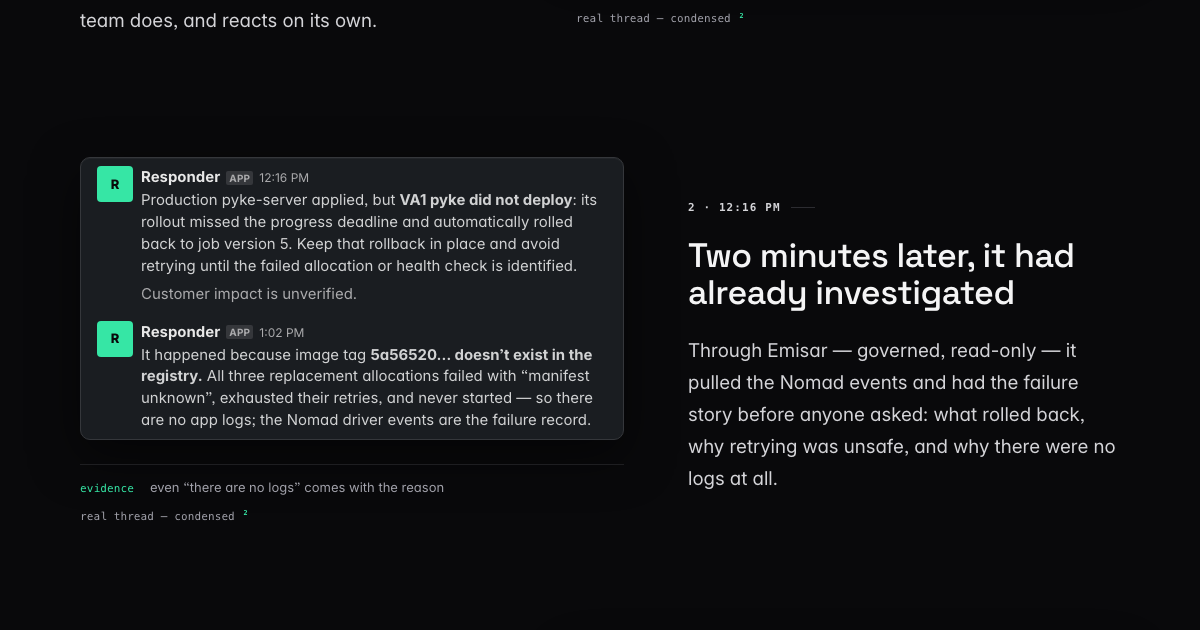
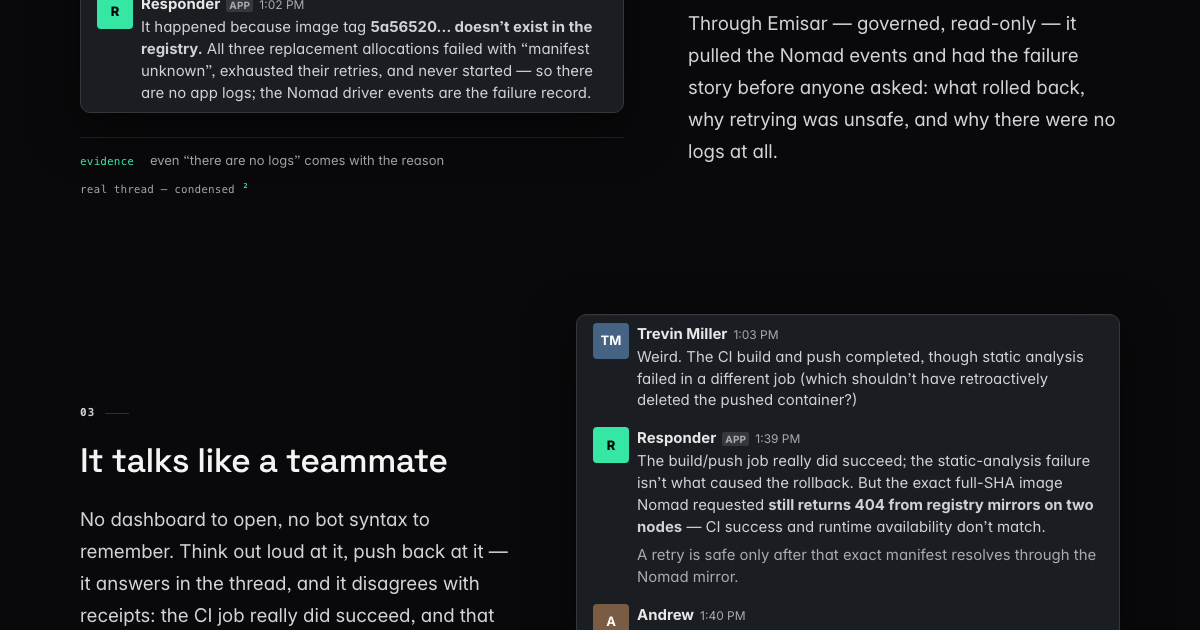
One time per step, real cards only, and the hero says what it does
The operator's polish list, applied. The hero claim is theirs now:
runs autonomously, ships fixes proactively, every claim with evidence,
every risky action asks a person first. The credo band is gone. The
timeline stopped stuttering — where each step used to announce itself
three ways (Z-time in the margin, PM-time in the column, a number),
there is now one quiet numeral in the column and one local time on the
rail, with the narrow-screen fallback folded into the numeral line.
The abstract publication panel became the PR card Responder actually
posts: the green attachment bar, "Draft PR ready", the lease-protection
line, the Open-draft-PR button, and "Draft only. Responder did not
merge, deploy, sign, or change infrastructure." The confirmed-memory
panel — a card that showed structure instead of information — is gone;
"It understands you" is two plain columns that say the true thing:
behavior changes only on the record. The colophon's typeface line went
with it.

diff --git a/site/index.html b/site/index.html
@@ -66,7 +66,7 @@
 
       <div class="hero-frame solo">
         <div class="hero-aside">
-          <p class="hero-sub">Responder is an AI teammate for on-call and infrastructure teams. It lives in Slack, watches your alerts, and investigates with real evidence. <strong>Every claim names its source. Every risky action asks a person first.</strong></p>
+          <p class="hero-sub">Responder is an AI teammate for on-call and infrastructure teams. It runs autonomously and ships fixes proactively. <strong>Every claim comes with evidence. Every risky action asks a person first.</strong></p>
 
           <div class="btn-row">
             <a class="btn go" href="docs/index.html">Read the docs</a>
@@ -78,12 +78,7 @@
     </div>
   </section>
 
-  <!-- Credo --------------------------------------------------------------- -->
-  <section class="credo">
-    <div class="wrap">
-      <p>It would rather say <span class="said">“I could not verify this”</span> than&#160;guess.</p>
-    </div>
-  </section>
+
 
   <!-- Responder during a real incident ------------------------------------
        Seven steps, one real thread, everything from the record. The windows
@@ -101,9 +96,9 @@
 
         <!-- 1 -->
         <article class="step beatline" id="s-alert">
-          <span class="beat-sub" aria-hidden="true"><span class="tick"></span><time>Aug 11 &middot; 18:14Z</time></span>
+          <span class="beat-sub" aria-hidden="true"><span class="tick"></span><time>12:14 PM</time></span>
           <div class="step-text">
-            <p class="step-num">1 &middot; 12:14 PM</p>
+            <p class="step-num">01<span class="tmin"> · 12:14 PM</span></p>
             <h3>It all starts with an alert</h3>
             <p>Terraform posted a run notification. Nobody asked Responder anything &mdash; it reads app alerts in your channels the way an engineer on the team does, and reacts on its own.</p>
           </div>
@@ -128,9 +123,9 @@
 
         <!-- 2 -->
         <article class="step flip beatline" id="s-triage">
-          <span class="beat-sub" aria-hidden="true"><span class="tick"></span><time>18:16Z</time></span>
+          <span class="beat-sub" aria-hidden="true"><span class="tick"></span><time>12:16 PM</time></span>
           <div class="step-text">
-            <p class="step-num">2 &middot; 12:16 PM</p>
+            <p class="step-num">02<span class="tmin"> · 12:16 PM</span></p>
             <h3>Two minutes later, it had already investigated</h3>
             <p>Through Emisar &mdash; governed, read-only &mdash; it pulled the Nomad events and had the failure story before anyone asked: what rolled back, why retrying was unsafe, and why there were no logs at all.</p>
           </div>
@@ -159,9 +154,9 @@
 
         <!-- 3 -->
         <article class="step beatline" id="s-teammate">
-          <span class="beat-sub" aria-hidden="true"><span class="tick"></span><time>19:03Z</time></span>
+          <span class="beat-sub" aria-hidden="true"><span class="tick"></span><time>1:03 PM</time></span>
           <div class="step-text">
-            <p class="step-num">3 &middot; 1:03 PM</p>
+            <p class="step-num">03<span class="tmin"> · 1:03 PM</span></p>
             <h3>It talks like a teammate</h3>
             <p>No dashboard to open, no bot syntax to remember. Think out loud at it, push back at it &mdash; it answers in the thread, and it disagrees with receipts: the CI job really did succeed, and that still isn&rsquo;t the cause.</p>
           </div>
@@ -197,9 +192,9 @@
 
         <!-- 4 -->
         <article class="step flip beatline" id="s-rootcause">
-          <span class="beat-sub" aria-hidden="true"><span class="tick"></span><time>19:44Z</time></span>
+          <span class="beat-sub" aria-hidden="true"><span class="tick"></span><time>1:44 PM</time></span>
           <div class="step-text">
-            <p class="step-num">4 &middot; 1:44 PM</p>
+            <p class="step-num">04<span class="tmin"> · 1:44 PM</span></p>
             <h3>Any tool it needs, to find the root cause</h3>
             <p>Source code, metrics, logs, registries &mdash; whatever your team trusts it with, through governed read-only actions. Four minutes into the deep dive it caught the registry lying: a fake 404 hiding an auth failure. And the one thing the evidence could not settle is said out loud.</p>
           </div>
@@ -221,31 +216,38 @@
 
         <!-- 5 -->
         <article class="step beatline" id="s-pr">
-          <span class="beat-sub" aria-hidden="true"><span class="tick"></span><time>19:50:46Z</time></span>
+          <span class="beat-sub" aria-hidden="true"><span class="tick"></span><time>1:50 PM</time></span>
           <div class="step-text">
-            <p class="step-num">5 &middot; 1:45 &ndash; 1:50 PM</p>
+            <p class="step-num">05<span class="tmin"> · 1:50 PM</span></p>
             <h3>It wrote the fix, as a pull request</h3>
             <p>&ldquo;Prepare PR to fix it&rdquo; &mdash; five words. The change happened in an isolated fork: commit 54d9dc0e makes every credential rotation roll every node, and alerts on the exact auth error that a healthy-looking readiness check had hidden. It cannot merge and cannot deploy. A person does that.</p>
           </div>
-          <figure class="mock" aria-labelledby="mock-pr-cap">
-            <figcaption id="mock-pr-cap" class="vh">The publication record, condensed: commit 54d9dc0e &mdash; Zot: roll credentials and alert on auth failures &mdash; in an isolated fork of blitz-infra. Draft PR 526, GitHub checks 5 of 5. By its own report: no apply, no deployment, no push, no credential rotation was performed.</figcaption>
-            <div class="mock-head" aria-hidden="true"><span class="dot good"></span><span>publication</span><span class="surface-tag">&middot; control plane</span><span class="right">19:50:46Z</span></div>
-            <div class="mock-body" aria-hidden="true">
-              <div class="mem">
-                <div class="mem-row"><span class="dot good"></span><span><span class="k">commit</span><span class="v">54d9dc0e &mdash; &ldquo;Zot: roll credentials and alert on auth failures&rdquo; <i>isolated fork</i></span></span></div>
-                <div class="mem-row"><span class="dot good"></span><span><span class="k">draft PR</span><span class="v">theblitzapp/blitz-infra #526 &middot; checks 5 of 5 <i>a person merges</i></span></span></div>
-                <div class="mem-row"><span class="dot idle"></span><span><span class="k">not performed</span><span class="v">no apply, no deployment, no push, no credential rotation <i>its own report</i></span></span></div>
+          <figure class="mock-slack" aria-labelledby="mock-pr-cap">
+            <figcaption id="mock-pr-cap" class="vh">The pull-request card Responder posted, real and condensed. At 1:50 PM: completed and committed as 54d9dc0e &mdash; Zot: roll credentials and alert on auth failures. Then: draft PR ready, with a button to open draft PR 526. The branch contains the exact tree approved by the latest readiness review; publication used lease protection. Draft only &mdash; Responder did not merge, deploy, sign, or change infrastructure.</figcaption>
+            <div class="slack-frame" aria-hidden="true">
+              <div class="slack-msg">
+                <span class="slack-av av-app">R</span>
+                <div class="slack-said">
+                  <p class="slack-meta"><span class="slack-who">Responder</span> <span class="slack-app">app</span> <span class="slack-ts">1:50 PM</span></p>
+                  <p class="slack-text">Completed and committed as <span class="slack-code">54d9dc0e</span> &mdash; <strong>Zot: roll credentials and alert on auth failures.</strong> Credential rotations now roll every Zot allocation, and Grafana alerts on the exact auth error even while <span class="slack-code">/v2/</span> stays ready.</p>
+                  <div class="slack-attach ok">
+                    <p class="slack-text"><strong>Draft PR ready</strong></p>
+                    <p class="slack-sub">The branch contains the exact tree approved by the readiness review. Publication used lease protection.</p>
+                    <p class="slack-btnrow"><span class="slack-btn">Open draft PR #526</span></p>
+                  </div>
+                  <p class="slack-text slack-dim">Draft only. Responder did not merge, deploy, sign, or change infrastructure.</p>
+                </div>
               </div>
             </div>
-            <p class="mock-note" aria-hidden="true"><span class="tag">boundary</span> <span class="note">it cannot merge. it cannot deploy. always.</span> <span class="prov">real episode &mdash; condensed&#8202;<span class="fnmark">2</span></span></p>
+            <p class="mock-note" aria-hidden="true"><span class="tag">boundary</span> <span class="note">it cannot merge. it cannot deploy. always.</span> <span class="prov">real thread &mdash; condensed&#8202;<span class="fnmark">2</span></span></p>
           </figure>
         </article>
 
         <!-- 6 -->
         <article class="step flip beatline" id="s-watch">
-          <span class="beat-sub" aria-hidden="true"><span class="tick"></span><time>19:59Z</time></span>
+          <span class="beat-sub" aria-hidden="true"><span class="tick"></span><time>1:59 PM</time></span>
           <div class="step-text">
-            <p class="step-num">6 &middot; 1:53 &ndash; 1:59 PM</p>
+            <p class="step-num">06<span class="tmin"> · 1:59 PM</span></p>
             <h3>It watched the merge, and the rollout</h3>
             <p>Checks passed, 5 of 5. When you asked &ldquo;can you explain how your fix works?&rdquo; &mdash; it could, mechanism and all. After the merge it kept the thread linked to deployment and Terraform updates, and watched the fix roll out as Nomad job v8 the next evening.</p>
           </div>
@@ -274,9 +276,9 @@
 
         <!-- 7 -->
         <article class="step beatline" id="s-verify">
-          <span class="beat-sub" aria-hidden="true"><span class="tick"></span><time>Aug 15 &middot; 19:55Z</time></span>
+          <span class="beat-sub" aria-hidden="true"><span class="tick"></span><time>Aug 15</time></span>
           <div class="step-text">
-            <p class="step-num">7 &middot; Aug 12 &ndash; Aug 15</p>
+            <p class="step-num">07<span class="tmin"> · Aug 15</span></p>
             <h3>Then it double-checked. Twice.</h3>
             <p>Asked to make sure the issue stayed gone, it scheduled follow-up checks for the next day and four days out &mdash; each proposed and confirmed separately, nothing scheduled until a person says so. The last one ran on August 15 and closed the story.</p>
           </div>
@@ -337,24 +339,17 @@
     <div class="wrap">
       <div class="section-head">
         <p class="beat-time-inline">It understands you</p>
-        <h2 id="und-h">Tell it how you want things.</h2>
-        <p>&ldquo;Keep replies short in this channel.&rdquo; &ldquo;Always verify before claiming recovery.&rdquo; Say it in words &mdash; Responder turns it into a typed preference or rule with an exact scope, expiry, and safety boundary, shows it to you, and applies it only after you confirm. Change your mind any time; nothing edits confirmed memory silently.</p>
+        <h2 id="und-h">It understands you.</h2>
+        <p>Behavior is shaped in plain words, and it changes only on the record.</p>
       </div>
-      <div class="trust-grid">
-        <figure class="mock" aria-labelledby="und-mock-cap">
-          <figcaption id="und-mock-cap" class="vh">A confirmed preference and a standing rule, from the record: response detail set to concise, scoped to one channel, expiring in 78 days; and a read-only rule mapping deployments to a verification check in this channel. Beneath: memory advises, it never authorizes.</figcaption>
-          <div class="mock-head" aria-hidden="true"><span class="dot good"></span><span>confirmed memory</span><span class="surface-tag">&middot; control plane</span><span class="right">scoped &middot; expiring</span></div>
-          <div class="mock-body" aria-hidden="true">
-            <div class="mem">
-              <div class="mem-row"><span class="dot good"></span><span><span class="k">preference</span><span class="v">response_detail = concise <i>this channel &middot; expires in 78 days</i></span></span></div>
-              <div class="mem-row"><span class="dot good"></span><span><span class="k">standing rule</span><span class="v">deployment &rarr; verify_deployment <i>read-only &middot; this channel</i></span></span></div>
-            </div>
-          </div>
-          <p class="mock-note" aria-hidden="true"><span class="tag">boundary</span> <span class="note">memory advises. It never authorizes.</span> <span class="prov">real entries &mdash; condensed&#8202;<span class="fnmark">2</span></span></p>
-        </figure>
+      <div class="und-grid">
+        <div class="und-text">
+          <h3>Tell it how you want things</h3>
+          <p>&ldquo;Keep replies short in this channel.&rdquo; &ldquo;Always verify before claiming recovery.&rdquo; Say it in words &mdash; Responder turns it into a typed preference or rule with an exact scope and expiry, shows it to you, and applies it only after you confirm. Nothing edits confirmed memory silently.</p>
+        </div>
         <div class="und-text">
           <h3>It listens to feedback</h3>
-          <p>React to a reply with an emoji, or just say what was wrong &mdash; both are recorded as feedback, with sentiment and context. Nothing is quietly absorbed: feedback goes to a review queue, and behavior changes the way everything here changes &mdash; on the record, with a person deciding.</p>
+          <p>React to a reply with an emoji, or just say what was wrong. Both are recorded as feedback, with sentiment and context &mdash; and reviewed on the record, with a person deciding what changes. Nothing is quietly absorbed.</p>
         </div>
       </div>
     </div>
@@ -561,7 +556,6 @@
     <p>
       <a href="docs/index.html">Docs</a><span class="sep">·</span><a href="https://github.com/AndrewDryga/responder">GitHub</a><span class="sep">·</span><a href="https://github.com/AndrewDryga/responder/blob/main/SECURITY.md">Security</a><span class="sep">·</span><a href="https://github.com/AndrewDryga/responder/blob/main/LICENSE">MIT license</a><span class="sep">·</span><a href="https://github.com/AndrewDryga/responder/releases">Releases</a>
     </p>
-    <p>set in Space Grotesk &amp; Inter · no build, no trackers · works from file://</p>
   </div>
 </footer>
 

diff --git a/site/assets/report.css b/site/assets/report.css
@@ -589,3 +589,29 @@
 /* Understands: panel beside prose. */
 .report .und-text h3 { font-family: var(--disp); font-weight: 560; font-size: 1.4375rem; letter-spacing: -.012em; color: var(--pink); margin-bottom: 8px; }
 .report #understands .trust-grid { align-items: start; }
+
+/* ---- The timeline, minimal: one time per step, one place per width ---- */
+
+.report .beat-sub time { font: 550 12px/1 var(--mono); letter-spacing: .04em; color: var(--pmut); }
+.report .step-num .tmin { color: var(--pmut); font-weight: 550; letter-spacing: .04em; }
+@media (min-width: 720px) { .report .step-num .tmin { display: none; } }
+
+/* Steps breathe evenly: one rhythm for every pair. */
+.report .steps { display: grid; gap: calc(var(--u,8px) * 14); }
+
+/* The Slack success-attachment and its button, as Slack draws them. */
+.report .slack-attach.ok { border-left-color: #2eb67d; }
+.report .slack-btnrow { margin: 8px 0 2px; }
+.report .slack-btn {
+  display: inline-block;
+  font: 700 13px/1 var(--sans);
+  color: #d1d2d3;
+  background: #1a1d21;
+  border: 1px solid #565856;
+  border-radius: 4px;
+  padding: 7px 12px;
+}
+
+/* Understands: two calm columns. */
+.report .und-grid { display: grid; grid-template-columns: repeat(2, minmax(0,1fr)); gap: calc(var(--u,8px)*6) calc(var(--u,8px)*10); }
+@media (max-width: 900px) { .report .und-grid { grid-template-columns: 1fr; } }
